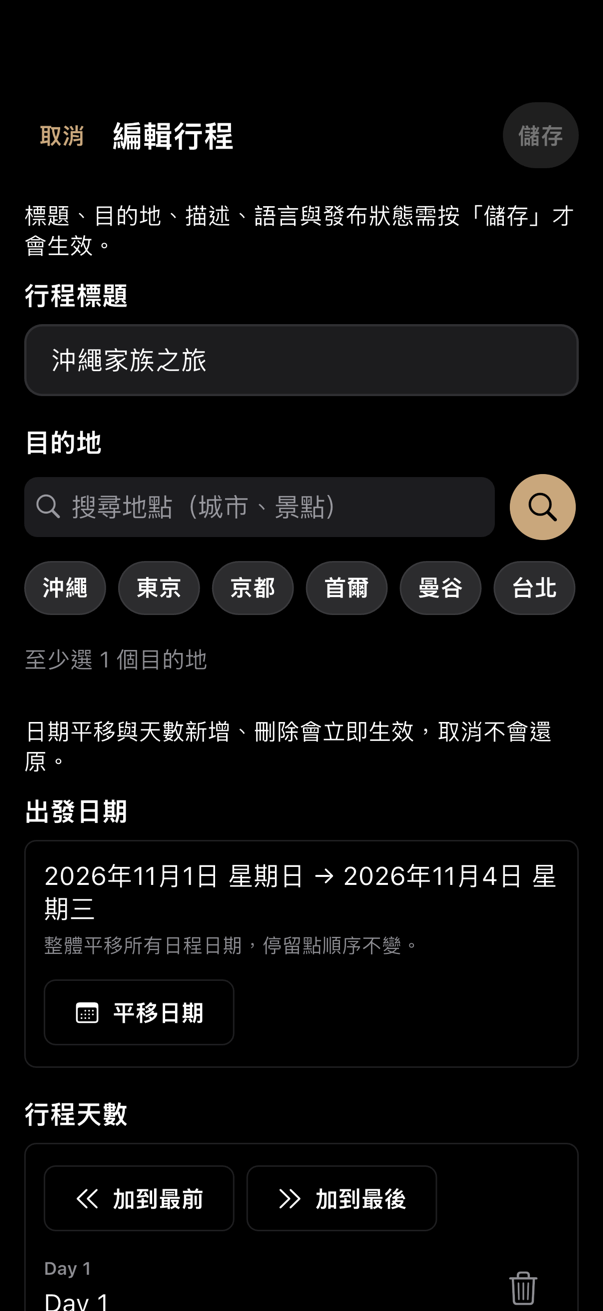
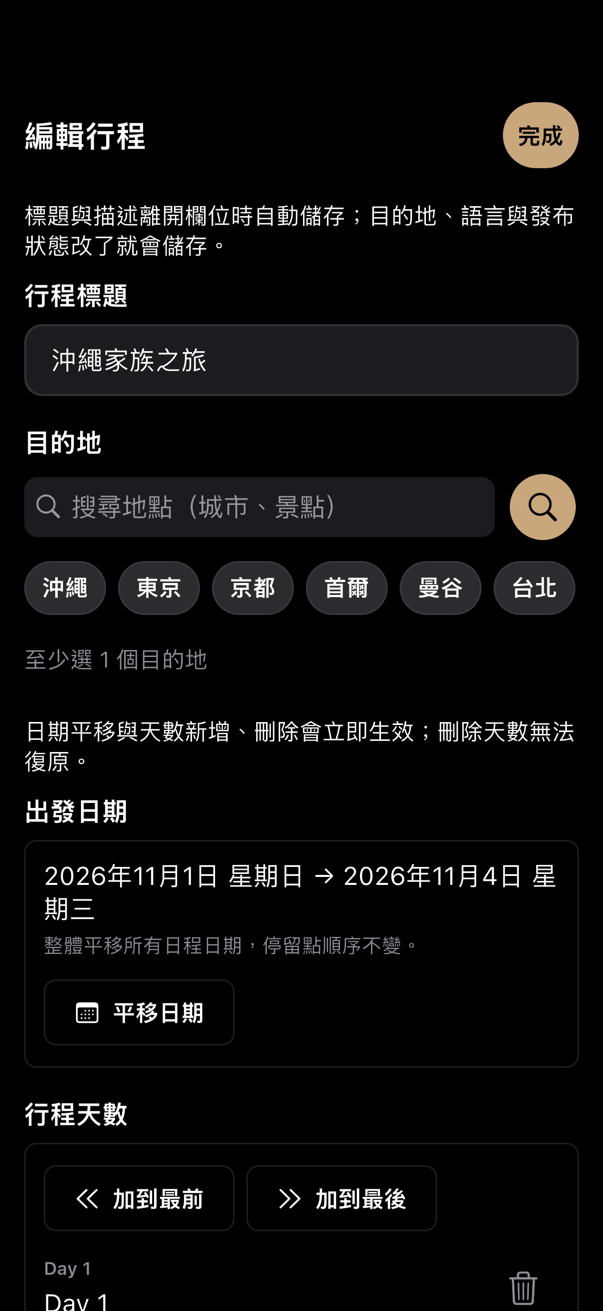
docs: 重拍行程編輯場景並新增送出失敗場景，更新報告、修改清單 A3 與相依測試(#546 #549)

diff --git a/integration_test/support/hig_screenshot_scenes.dart b/integration_test/support/hig_screenshot_scenes.dart
@@ -820,7 +820,7 @@ List<HigScene> higScenes() => [
   const HigScene('trip-create', '#424 #426', location: '/new-trip'),
   HigScene(
     'trip-edit',
-    '#417 #424',
+    '#417 #424 #546',
     location: '/edit-trip/okinawa',
     stub: (f) => when(() => f.trips.fetchTrip('okinawa')).thenAnswer(
       (_) async => const Trip(
@@ -833,6 +833,45 @@ List<HigScene> higScenes() => [
         endDate: '2026-11-04',
       ),
     ),
+    proof: () => find.byKey(const ValueKey('edit-done')),
+  ),
+  HigScene(
+    'trip-edit-save-failed',
+    '#549',
+    location: '/edit-trip/okinawa',
+    stub: (f) {
+      when(() => f.trips.fetchTrip('okinawa')).thenAnswer(
+        (_) async => const Trip(
+          id: 'okinawa',
+          name: 'okinawa',
+          title: '沖繩家族之旅',
+          description: '四天三夜',
+          lang: 'zh-TW',
+          startDate: '2026-11-01',
+          endDate: '2026-11-04',
+        ),
+      );
+      when(
+        () => f.trips.updateTrip(
+          any(),
+          title: any(named: 'title'),
+          description: any(named: 'description'),
+          lang: any(named: 'lang'),
+          published: any(named: 'published'),
+          destinations: any(named: 'destinations'),
+        ),
+      ).thenAnswer((_) async => throw _failure);
+    },
+    // 改標題後離開欄位 → 送出失敗：輸入保留，錯誤與「重試」就在標題欄位下方。
+    act: (tester, f) async {
+      await tester.enterText(
+        find.byKey(const ValueKey('edit-title')),
+        '沖繩家族之旅（改）',
+      );
+      FocusManager.instance.primaryFocus?.unfocus();
+      await higSettle(tester);
+    },
+    proof: () => find.byKey(const ValueKey('edit-retry-title')),
   ),
   HigScene(
     'trip-edit-load-failed',

diff --git a/test/features/trip_detail/trip_timeline_screen_test.dart b/test/features/trip_detail/trip_timeline_screen_test.dart
@@ -896,11 +896,11 @@ void main() {
       find.byKey(const ValueKey('app-large-screen-sheet')),
       findsOneWidget,
     );
-    expect(find.byKey(const ValueKey('tp-app-bar-cancel')), findsOneWidget);
-    expect(find.byKey(const ValueKey('edit-save')), findsOneWidget);
+    expect(find.byKey(const ValueKey('tp-app-bar-cancel')), findsNothing);
+    expect(find.byKey(const ValueKey('edit-done')), findsOneWidget);
     expect(find.byKey(const ValueKey('app-large-sheet-close')), findsNothing);
 
-    await tester.tap(find.byKey(const ValueKey('tp-app-bar-cancel')));
+    await tester.tap(find.byKey(const ValueKey('edit-done')));
     await tester.pumpAndSettle();
     expect(find.byKey(const ValueKey('app-large-screen-sheet')), findsNothing);
   });

diff --git a/integration_test/support/app_flow_fixture.dart b/integration_test/support/app_flow_fixture.dart
@@ -580,9 +580,9 @@ Future<void> runAppOwnedReleaseFlow(
   await tester.pumpAndSettle();
   await tester.tap(find.byKey(const ValueKey('trip-action-edit-info')));
   await tester.pumpAndSettle();
-  expect(find.byKey(const ValueKey('edit-save')), findsOneWidget);
+  expect(find.byKey(const ValueKey('edit-done')), findsOneWidget);
   await captureState('form');
-  await tester.tap(find.byKey(const ValueKey('tp-app-bar-cancel')));
+  await tester.tap(find.byKey(const ValueKey('edit-done')));
   await tester.pumpAndSettle();
 
   // 行程與地圖之間改由 root tab 進出（兩顆重複的 bar button 已移除）。

diff --git a/test/flows/hig_scene_guidelines_test.dart b/test/flows/hig_scene_guidelines_test.dart
@@ -34,6 +34,7 @@ const _knownTapTargetViolations = <String, Set<String>>{
   'trips-list-empty': {'搜尋行程 361x36'},
   'trip-create': {'搜尋地點（城市、景點） 305x36'},
   'trip-edit': {'搜尋地點（城市、景點） 305x36'},
+  'trip-edit-save-failed': {'搜尋地點（城市、景點） 305x36'},
   'favorites': {'搜尋收藏 361x36'},
   'favorites-load-failed': {'搜尋收藏 361x36'},
   'account-developer-app-new': {'(無標籤) 40x40'},

diff --git a/docs/qa/2026-11-04-hig-screenshot-review-app.md b/docs/qa/2026-11-04-hig-screenshot-review-app.md
@@ -1,6 +1,6 @@
 # App 截圖逐張檢查報告（#531／#537 素材）
 
-檢查日期：2026-11-04。對象：[`2026-11-04-hig-screenshots/`](2026-11-04-hig-screenshots/) 的 125 個場景（淺色、深色各一張，iPhone 17 模擬器）。依據：[HIG 檢查表](../research/2026-11-04-hig-screen-checklist.md)。
+檢查日期：2026-11-04。對象：[`2026-11-04-hig-screenshots/`](2026-11-04-hig-screenshots/) 的 126 個場景（淺色、深色各一張，iPhone 17 模擬器）。依據：[HIG 檢查表](../research/2026-11-04-hig-screen-checklist.md)。
 
 ## 怎麼檢查的
 
@@ -15,15 +15,15 @@
 
 | 結論 | 場景數 |
 |---|---|
-| 符合 | 44 |
+| 符合 | 46 |
 | 未見明顯問題 | 52 |
-| 疑慮 | 14 |
+| 疑慮 | 13 |
 | 張力（與檢查表建議衝突，但屬已知專案決策） | 12 |
 | 場景無效（截圖沒有證明想證明的畫面） | 0（原 3 個已修並重拍） |
 | 無法判讀 | 3 |
 | 未看 | 0 |
 
-125 個場景全部看過（第三輪補了 8 個彈出層場景、第四輪補 4 個不可復原動作的確認框、第五輪補 11 個：生物辨識、登入裝置與開發者 App 的確認框、左滑刪除、六種表單 sheet）；**#544 修正並全量重拍後**重算如上表（修正前：符合 34、疑慮 13）。（第一輪看 72 個，第二輪補看 30 個，含 20 個 `ax-*` 大字級場景）。B2（放大 200%）逐張看過：能判讀的 `ax-*` 場景沒有截斷（`ax-trip-map-2x` 因地圖是 fixture 除外），分段控制元件在大字級改垂直堆疊是刻意設計。「未見明顯問題」只代表目視沒看到，沒有量字級，也沒有逐一量對比。
+126 個場景全部看過（第三輪補了 8 個彈出層場景、第四輪補 4 個不可復原動作的確認框、第五輪補 11 個：生物辨識、登入裝置與開發者 App 的確認框、左滑刪除、六種表單 sheet）；第六輪（#546／#549）重拍 `trip-edit` 並補 `trip-edit-save-failed`，`trip-edit` 由疑慮轉符合，總數 +1；**#544 修正並全量重拍後**重算如上表（修正前：符合 34、疑慮 13）。（第一輪看 72 個，第二輪補看 30 個，含 20 個 `ax-*` 大字級場景）。B2（放大 200%）逐張看過：能判讀的 `ax-*` 場景沒有截斷（`ax-trip-map-2x` 因地圖是 fixture 除外），分段控制元件在大字級改垂直堆疊是刻意設計。「未見明顯問題」只代表目視沒看到，沒有量字級，也沒有逐一量對比。
 
 ## 需要處理的發現
 
@@ -32,7 +32,7 @@
 | 1 | `auth-signup` | F5 | **已修（#544）**：空表單、未勾同意時「建立」仍可按 | 看圖加程式碼（`account_flow_screens.dart:145`） |
 | 2 | `auth-reset-password-expired` | — | **已修**：場景 stub 用錯 error code，畫面顯示的不是過期提示 | 看圖加程式碼（`:541-546`） |
 | 3 | `trip-map-route-failed` | — | **已修**：與 `trip-map` 位元組相同，沒有失敗畫面（根因：fixture 湊不出相鄰兩點） | SHA-1 相同 |
-| 4 | `trip-edit` | D10、G5 | 同一個有「取消」的表單，部分欄位按「儲存」才生效、日期與天數立即生效 | 看圖（畫面文字） |
+| 4 | `trip-edit` | D10、G5 | **已修（#546、#549）**：改為即時儲存，標題列只有「完成」，說明文字不再互相矛盾 | 看圖（畫面文字）加紅燈測試 |
 | 5 | `entry-add`／`entry-edit`／`entry-copy`／`entry-move` | D12 | modal 式表單下方仍顯示底部分頁列 | 看圖 |
 | 6 | `account-sessions` | C1 | **已修（#544）**：「管理已連結應用」4.36:1，低於 4.5:1；且該卡疑似帶按下／焦點外框 | 像素量測加看圖 |
 | 7 | `account-connected-apps` | C4、H2 | **已修（#544）**：深色下 scope 標籤沒有膠囊底；列內圖示與標題錯位 | 看圖 |
@@ -142,8 +142,9 @@
 | `trip-audit` | 淺深已看 | 未見明顯問題 | — | 目視未發現與檢查表衝突之處；僅看圖，未量字級與對比 |
 | `trip-create` | 淺深已看 | 未見明顯問題 | — | 目視未發現與檢查表衝突之處；僅看圖，未量字級與對比 |
 | `trip-delete-confirm` | 淺深已看 | 符合 | G2、G3、G4 | alert／action sheet 結構、取消在 leading、破壞性動作用紅字，目視符合 |
-| `trip-edit-load-failed` | 淺深已看 | 未見明顯問題 | — | 目視未發現與檢查表衝突之處；僅看圖，未量字級與對比 |
-| `trip-edit` | 淺深已看 | 疑慮 | D10、G5 | 頂部說明「按『儲存』才會生效」，下方卻寫「日期平移與天數新增、刪除會立即生效，取消不會還原」；同一個有「取消」的表單混用兩種生效語意 |
+| `trip-edit-load-failed` | 淺深已看（重拍） | 未見明顯問題 | — | 目視未發現與檢查表衝突之處；僅看圖，未量字級與對比 |
+| `trip-edit-save-failed` | 淺深已看（#549 新增） | 符合 | G5、G6 | 改標題後離開欄位送出失敗：輸入保留，錯誤「儲存失敗,請稍後再試」與「重試」就在標題欄位正下方，不是一閃而過的通知 |
+| `trip-edit` | 淺深已看（重拍） | 符合 | D10、G5 | 重拍後標題列只有右側「完成」，沒有「取消」與「儲存」；說明文字統一為「離開欄位自動儲存／改了就儲存」與「日期平移與天數操作立即生效；刪除天數無法復原」，不再混用兩種語意（#546 修正） |
 | `trip-health-findings` | 淺深已看（重拍） | 符合 | 版面 | 重拍後兩張建議卡同寬（#544 A7 已修） |
 | `trip-health-load-failed` | 淺深已看 | 未見明顯問題 | — | 目視未發現與檢查表衝突之處；僅看圖，未量字級與對比 |
 | `trip-health-not-run` | 淺深已看 | 未見明顯問題 | — | 目視未發現與檢查表衝突之處；僅看圖，未量字級與對比 |

diff --git a/docs/qa/2026-11-04-hig-fix-list.md b/docs/qa/2026-11-04-hig-fix-list.md
@@ -31,8 +31,9 @@
 
 ## 二、App 要改的
 
-**#544 處理結果**（分支 `fix/hig-app-544`，每項先紅燈再實作；✅＝已修，⚪＝查過不改，A3／A4 要先決定，沒動）：
+**#544 處理結果**（分支 `fix/hig-app-544`，每項先紅燈再實作；✅＝已修，⚪＝查過不改，A3／A4 要先決定；**A3 已於 #546／#549 完成**，A4 未動）：
 
+- ✅ **A3 行程編輯改即時儲存（#546、#549）**：採「拿掉取消、改即時儲存」。標題列只剩「完成」；標題與描述失焦或按「完成」才送出、打字中不送；目的地、語言、發布狀態改了立即送；日期平移與天數新增、刪除維持立即生效，刪除仍先確認且不可復原（ADR-0008）；移除「捨棄未儲存的變更」確認。失敗時保留輸入並在欄位下方就地顯示錯誤與「重試」；「完成」遇到未送出成功的變更會攔截（說出欄位，選「重試」或「放棄變更」）；標題清空不送出、就地提示「標題不能是空白」，按「完成」時還原成上次成功的值。離線時 `PUT /trips/:id` 本來就不進離線佇列，送出會失敗，與改版前相同，只是現在失敗就地可見並可重試。重拍 `trip-edit`、`trip-edit-load-failed`，新增 `trip-edit-save-failed`（淺深各看過）。A4（停留點表單的分頁列）與本項無關，未動。
 - ✅ A1 註冊鈕：未勾同意停用並顯示說明。✅ A2 加入行程錯誤態：圖示加「返回」。✅ A5 登入裝置頁：深色紅色 `#FF453A`→`#FF6961`（4.09→4.94）、OAuth 說明卡降一階底色。✅ A6 已連結 App：Chip 取目前主題底色、圖示對齊標題。✅ A7 健檢卡同寬（紅燈 720 vs 175）。✅ A9 公開分享頁大字級主按鈕獨立一列。⚪ **A10 已取消**：改走單一 tint（維持 Apple 的做法，預設分頁列選中標籤 4.39:1 記為已知例外，「提高對比」時才加深，見 #550）；#545 先前加的 `onPrimaryContainer` 特例已回退。✅ A11 補標籤：日期條、搜尋欄、收藏列。
 - **紅燈證據**（各項在實作前實際看到的失敗輸出）：A1 `Expected: null / Actual: <Closure _submit>`（建立鈕原本可按）；A2 找不到錯誤圖示與「返回」；A5 對比 `4.090967…`（深色紅字）；A6 `chip.backgroundColor` 為 null；A7 `Expected 720.0 / Actual 175.0`；A9 `Expected ≥ 414.0 / Actual 350.0`；A10 對比 `4.389355…`（與工具掃描 4.39 一致）；A11 `labeledTapTargetGuideline` 回報確切節點（日期條 `Rect 0,0 177×48`、收藏列、探索頁 `Rect 16,128 → 784,188`）。
 - **審查後的調整**：① A2 原本手刻圖示加文字，改為重用 `TpStateView`（票文要求重用既有錯誤態元件）。② A11 搜尋欄原本全域在 `AppSearchField` 加 label，審查指出可能讓其他畫面念兩遍；我用語意樹傾印確認：探索頁外層 `[tap]` 節點 label 為空，但在最小環境下 label 會與 hint 合併成「搜尋地點⏎搜尋地點」。改為選擇性參數 `semanticLabel`，只有探索頁傳。**仍需用真機 VoiceOver 確認探索頁搜尋欄的朗讀不重複**（外層節點「搜尋地點」加內層欄位 hint，是兩個元素，不是同一個念兩遍，但我沒用真正的 VoiceOver 驗過）。③ 淺色選中前景改用 `tintDeep` 後，App 內並存兩個棕色：一般前景仍是 `primary #8A6038`，分頁列與日期條選中字是較深的 `#6F4C2C`。這是為了對中性選取底達 4.5:1 的刻意差異，設計上要不要統一由你決定。④ 深色 `destructiveBackground`（錯誤面板底）仍是 `#FF453A` 的 20% alpha，沒有跟著換色，只換了文字用的 destructive；這是刻意的（底色飽和度不動），但錯誤面板文字對比靠的是文字色變亮。
@@ -45,7 +46,7 @@
 |---|---|---|---|---|---|
 | A1 ✅ | `auth-signup` | F5 | 空表單、未勾同意時「建立」仍可按（`account_flow_screens.dart:145` 是 `primaryActionEnabled: !_submitting`） | 欄位未通過驗證或未勾同意時停用，與 web 對齊（web 已是停用外觀加就地說明） | 程式碼 |
 | A2 ✅ | `add-to-trip-invalid-favorite`、`add-to-trip-missing-data` | G6、G7 | 有說明原因，但只有一行灰字，沒有圖示、重試或返回；底部分頁列仍顯示（`add_to_trip_screen.dart:76,90`） | 改用專案既有的錯誤態元件，附「返回」；分頁列的處理與 A4 一起決定 | 程式碼加看圖 |
-| A3 | `trip-edit` | D10、G5 | 同一個有「取消」的表單，部分欄位按「儲存」才生效、日期與天數立即生效 | 統一成「全部按儲存才生效」，或拿掉「取消」改成即時儲存 | 看圖 |
+| A3 ✅ | `trip-edit` | D10、G5 | 同一個有「取消」的表單，部分欄位按「儲存」才生效、日期與天數立即生效 | 統一成「全部按儲存才生效」，或拿掉「取消」改成即時儲存 | 看圖 |
 | A4 | `entry-add`／`entry-edit`／`entry-copy`／`entry-move` | D12、D15 | modal 式表單下方仍顯示底部分頁列 | 改成真正的 modal 呈現（sheet 或全螢幕覆蓋，自然蓋住分頁列）。注意 D15 要求不要隱藏或停用 tab bar，所以不是在路由上單純關掉分頁列，要先決定這些表單屬於「分頁內的頁面」還是「modal」 | 看圖 |
 | A5 ✅ | `account-sessions` | C1 | 「管理已連結應用」文字 4.36:1，低於 4.5:1；該卡疑似帶按下或焦點外框 | 調深文字色或換 token；確認外框是否為殘留焦點 | 像素加看圖 |
 | A6 ✅ | `account-connected-apps` | C4、H2 | 深色下 scope 標籤沒有膠囊底；列內圖示與標題錯位 | 補深色底色 token；對齊圖示與標題基線 | 看圖 |

diff --git a/docs/research/2026-11-04-hig-app-screen-inventory.md b/docs/research/2026-11-04-hig-app-screen-inventory.md
@@ -21,7 +21,7 @@ HIG 取證的驗收依據：App 的每個路由與彈出層，各對到哪個 mo
 | `/auth/password/reset` | ResetPasswordScreen | 已有場景 | `auth-reset-password` `auth-reset-password-success` `auth-reset-password-expired` |
 | `/auth/verify-email` | VerifyEmailScreen | 已有場景 | `auth-verify-email` `auth-verify-email-success` `auth-verify-email-incomplete` |
 | `/new-trip` | CreateTripScreen | 已有場景 | `trip-create` `ax-trip-create-2x` |
-| `/edit-trip/:tripId` | EditTripScreen | 已有場景 | `trip-edit` `trip-edit-load-failed` |
+| `/edit-trip/:tripId` | EditTripScreen | 已有場景 | `trip-edit` `trip-edit-save-failed` `trip-edit-load-failed` |
 | `/collab/:tripId` | CollabScreen | 已有場景 | `collab` `collab-load-failed` `collab-remove-member-confirm` `collab-revoke-invite-confirm` |
 | `/share-trip/:tripId` | ShareScreen | 已有場景 | `share-manage` `share-custom-expiry-missing` `share-created-card` `share-create-failed` `share-list-load-failed` `share-revoke-confirm` `ax-share-manage-2x` |
 | `/oauth/consent` | InvalidLinkScreen（固定提示文字） | 已有場景 | `oauth-consent-invalid` |

diff --git a/CHANGELOG.md b/CHANGELOG.md
@@ -4,6 +4,10 @@
 
 ## [Unreleased]
 
+### 變更
+
+- 行程編輯改為即時儲存：拿掉「取消」與「儲存」，標題列只剩「完成」。標題與描述在離開欄位或按「完成」時送出（打字中不送），目的地、語言、發布狀態改了立即送出；送出失敗時保留輸入並在欄位下方顯示錯誤與「重試」，「完成」遇到未送出的變更會攔截，標題清空不送出並在「完成」時還原。（#546、#549）
+
 ## [0.37.5] - 2026-11-03
 
 ### 修正
